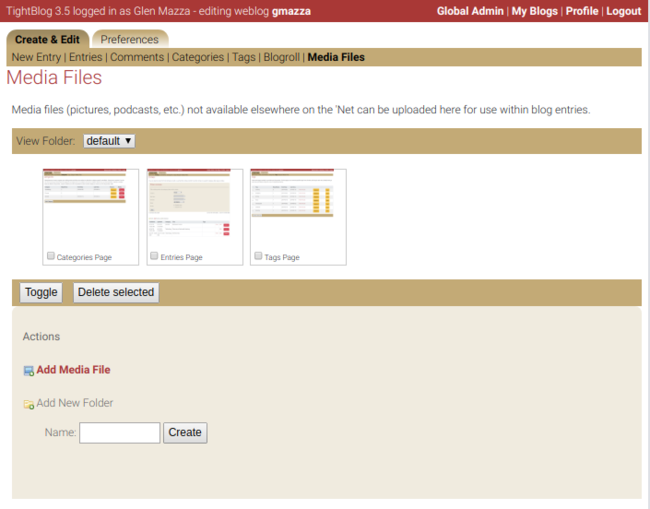
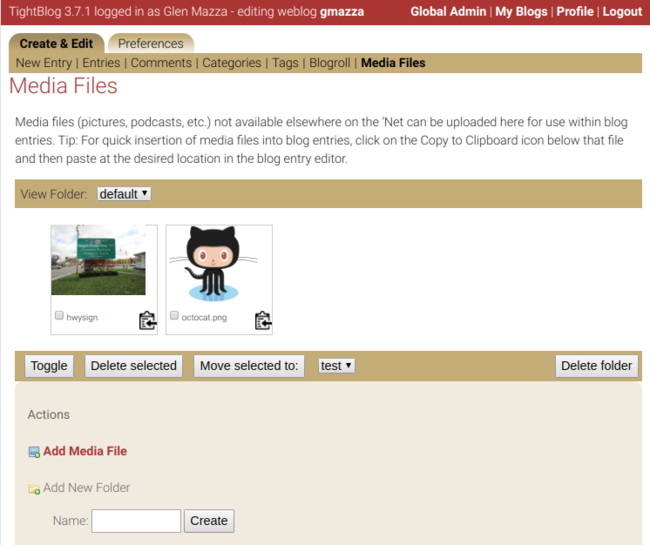
Issue 1052: Copy to clipboard for media files

diff --git a/src/main/webapp/tb-ui/scripts/entryedit.js b/src/main/webapp/tb-ui/scripts/entryedit.js
@@ -6,31 +6,6 @@ function extractLast( term ) {
     return split( term ).pop();
 }
 
-function onClickAddImage(){
-    $("#mediaFileChooser" ).attr('src', mediaFileChooserUrl);
-    $("#insertMediaFileModal").modal('show');
-}
-
-function onSelectMediaFile(name, url, alt, title, anchor, isImage) {
-    $("#insertMediaFileModal").modal('hide');
-    $("#mediaFileChooser").attr('src','about:blank');
-    var anchorTag;
-    if (isImage === true) {
-        anchorTag = (anchor ? '<a href="' + anchor + '">' : '') +
-        '<img src="' + url + '"' +
-        ' alt="' + (alt ? alt : name) + '"' +
-         (title ? ' title="' + title + '"' : '') +
-         '>' +
-        (anchor ? '</a>' : '');
-    } else {
-        anchorTag = '<a href="' + url + '"' +
-         (title ? ' title="' + title + '"' : '') +
-        '>' + (alt ? alt : name) + '</a>';
-    }
-    angular.element('#ngapp-div').scope().ctrl.insertMediaFile(anchorTag);
-    angular.element('#ngapp-div').scope().$apply();
-}
-
 $(function() {
     $( "#accordion" ).accordion({});
 
@@ -123,14 +98,6 @@ tightblogApp.controller('PageController', ['$http', '$interpolate', '$sce',
               self.commonErrorResponse
             )
         };
-
-        this.insertMediaFile = function(anchorTag) {
-            if (self.entry.text) {
-                self.entry.text += anchorTag;
-            } else {
-                self.entry.text = anchorTag;
-            }
-        }
 
         this.getEntry = function() {
             $http.get(this.urlRoot + entryId).then(

diff --git a/src/main/webapp/tb-ui/scripts/mediafileview.js b/src/main/webapp/tb-ui/scripts/mediafileview.js
@@ -60,6 +60,29 @@ tightblogApp.controller('PageController', ['$http', function PageController($htt
         return null;
     }
 
+    this.copyToClipboard = function(mediaFile) {
+        const textarea = document.createElement('textarea');
+        document.body.appendChild(textarea);
+
+        if (mediaFile.imageFile === true) {
+            anchorTag = (mediaFile.anchor ? '<a href="' + mediaFile.anchor + '">' : '') +
+            '<img src="' + mediaFile.permalink + '"' +
+            ' alt="' + (mediaFile.altText ? mediaFile.altText : mediaFile.name) + '"' +
+             (mediaFile.titleText ? ' title="' + mediaFile.titleText + '"' : '') +
+             '>' +
+            (mediaFile.anchor ? '</a>' : '');
+        } else {
+            anchorTag = '<a href="' + mediaFile.permalink + '"' +
+             (mediaFile.titleText ? ' title="' + mediaFile.titleText + '"' : '') +
+            '>' + (mediaFile.altText ? mediaFile.altText : mediaFile.name) + '</a>';
+        }
+
+        textarea.value = anchorTag;
+        textarea.select();
+        document.execCommand('copy');
+        textarea.remove();
+    }
+
     this.filesSelected = function() {
         return $('input[name="idSelections"]:checked').size() > 0;
     }

diff --git a/src/main/webapp/tb-ui/styles/tbeditorui.css b/src/main/webapp/tb-ui/styles/tbeditorui.css
@@ -395,9 +395,6 @@ div.optioner {
     display:inline;
     float:left;
     margin:5px;
-    list-style-type:none;
-    width:140px;
-    height:140px;
     border: 1px solid #ccc;
 }
 
@@ -418,7 +415,7 @@ div.optioner {
 
 .mediaObject {
      width:120px;
-     height:120px;
+     height:110px;
 }
 .mediaObjectInfo {
     clear:left;

diff --git a/src/main/java/org/tightblog/bloggerui/controller/UIController.java b/src/main/java/org/tightblog/bloggerui/controller/UIController.java
@@ -284,11 +284,6 @@ public class UIController {
         return getBlogOwnerPage(principal, null, weblogId, "templateEdit");
     }
 
-    @RequestMapping(value = "/authoring/mediaFileChooser")
-    public ModelAndView mediaFileChooser(Principal principal, @RequestParam String weblogId) {
-        return getBlogContributorPage(principal, null, weblogId, "mediaFileChooser");
-    }
-
     @RequestMapping(value = "/authoring/mediaFileView")
     public ModelAndView mediaFileView(Principal principal, @RequestParam String weblogId) {
         return getBlogPublisherPage(principal, weblogId, "mediaFileView");

diff --git a/README.md b/README.md
@@ -3,8 +3,8 @@ and new functionality added in (see below for details).  Its goal is to satisfy 
 serving as a reliable starting point for other developers to fork and add additional customized features.  
 
 After contributing for about 2 1/2 years on Roller, I forked the codebase in May 2015 after I was unable to
-get team approval for simplifications I felt vital for the long-term growth of the project.  As of December 28, 2019, 
-<a href="https://github.com/gmazza/tightblog/releases">Release 3.7</a> is available.
+get team approval for simplifications I felt vital for the long-term growth of the project.  As of 22 March 2020, 
+<a href="https://github.com/gmazza/tightblog/releases">Release 3.7.2</a> is available.
 
 Screen shots for the TightBlog UI are [here](https://github.com/gmazza/tightblog/wiki/Screenshots), the twelve-table database model is
 [here](https://github.com/gmazza/tightblog/blob/master/etc/sqlgen/src/main/resources/createdb.vm), see also [my blog](https://glenmazza.net/blog/) for an example
